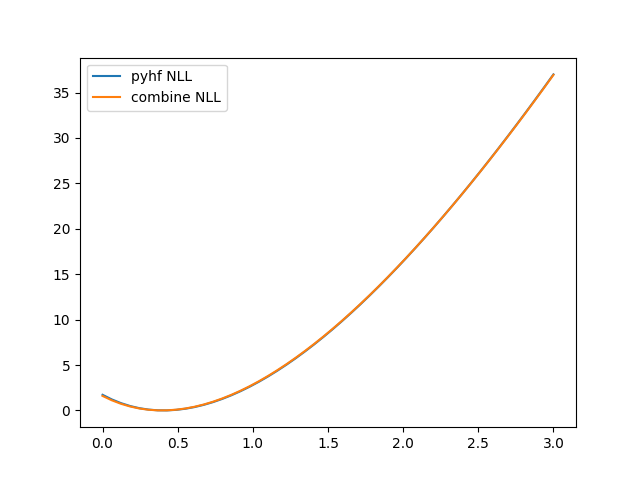
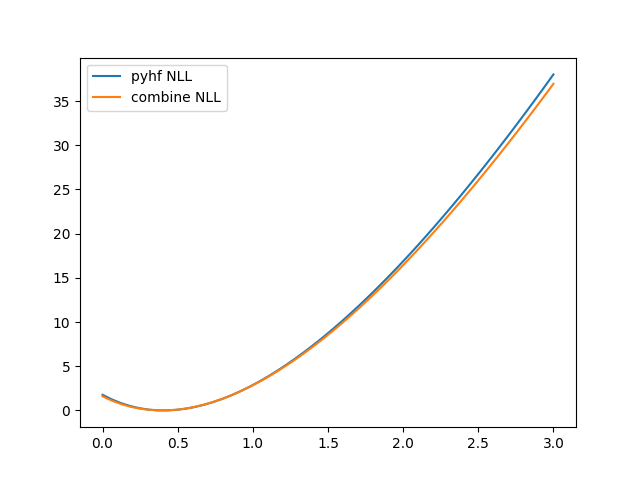
new nll plot

diff --git a/Converters/Stat_testing/to_pyhf_test.py b/Converters/Stat_testing/to_pyhf_test.py
@@ -22,7 +22,8 @@ observations = ws.data(model)
 poi_values = np.linspace(0, 3, 50).tolist()
 NLL = []
 for poi in poi_values:
-    NLL.append(37*(pyhf.infer.mle.twice_nll(pars=[poi, 1], data=observations, pdf=model)-71.83)/(147.84-71.83))
+    NLL.append(-1*(model.logpdf(pars=[poi, 1], data=observations))-35.91)
+
 plt.plot(poi_values, NLL, label = "pyhf NLL")
 file = uproot.open('higgsCombineTest.MultiDimFit.mH120.root')
 tree = file['limit']
